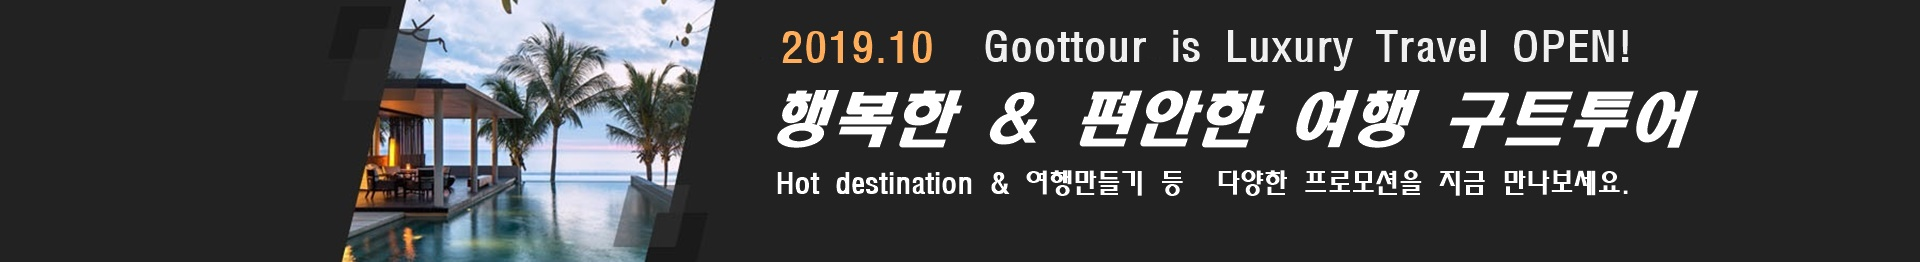
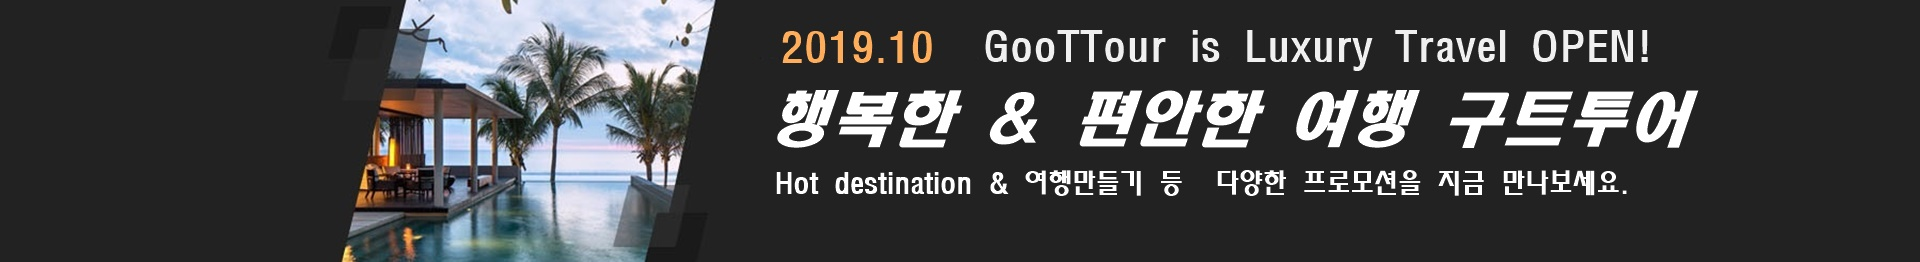
10.23 오후 메인수정 작업 (이미지 radius)

Changed region(s): [[0.5312, 0.0916, 0.875, 0.2748], [0.4062, 0.6412, 0.8438, 0.7634]]

diff --git a/Hye/WebContent/project/Main.css b/Hye/WebContent/project/Main.css
@@ -14,16 +14,14 @@
 	.carousel-inner > .carousel-item > a > img {display: block; 
 	max-width: 100%; height: 300px !important; margin : 0px auto;}
 	
-	#cjimg img{width:350px; height:300px; margin:0 20px; margin-bottom:30px; }
-	#cjimg div{float:left; height:400px;}
+	#cjimg img{width:360px; height:300px; margin-bottom:30px; border-radius: 25px;  }
+	#cjimg div{float:left; height:400px; width:380px; margin:0 10px;}
 	#cjimg{width:1200px; height:1200px;}
 	#top-h1{ margin-top:100px; margin-bottom:30px;}
 	#cjtop{ width:1200px; height:300px;}
-	#cjtop>div>img{height:250px;}
-	
+	#cjtop>div>img{width:100%;}
 	#hot1, #hot2, #hot3{
-		width:380px; height:250px;  margin:0 10px;  border-radius: 10px;}
-		
+		width:380px; height:250px;  margin:0 10px;  border-radius: 25px;}
 	#rowdiv div h1{line-height:250px;}
 	#rowdiv{margin-top:50px; margin-bottom:50px;}
 		

diff --git a/Hye/WebContent/ckeditor/samples/old/easyimage/easyimage.html b/Hye/WebContent/ckeditor/samples/old/easyimage/easyimage.html
@@ -10,14 +10,13 @@ For licensing, see LICENSE.md or https://ckeditor.com/legal/ckeditor-oss-license
 	<script src="../../../ckeditor.js"></script>
 	<link rel="stylesheet" href="../../../samples/css/samples.css">
 	<link rel="stylesheet" href="../../../samples/toolbarconfigurator/lib/codemirror/neo.css">
-</head>
-<body id="main">
-
-<style>
+	<style>
 	.adjoined-bottom:before {
 		height: 270px;
 	}
-</style>
+	</style>
+</head>
+<body id="main">
 
 <nav class="navigation-a">
 	<div class="grid-container">
